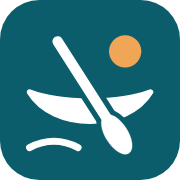
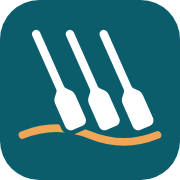
feat: isotipo de Remada con tres remos (trabajo en equipo)
Claude-Session: https://claude.ai/code/session_0186Ye35o3E41Ji7e1nJdTP4

Changed region(s): [[0.0833, 0.1667, 0.9167, 0.8611]]

diff --git a/sw.js b/sw.js
@@ -1,5 +1,5 @@
 // Service worker: la app y los datos base funcionan sin conexión.
-const VERSION = "remada-v4";
+const VERSION = "remada-v5";
 const FOTOS = "valdi-fotos-v1";
 const BASE = ["./", "index.html", "styles.css", "app.js", "config.js", "data/lugares.json", "manifest.webmanifest",
   "icons/favicon.svg", "icons/favicon-32.png", "icons/isotipo-180.png", "icons/isotipo-512.png"];
